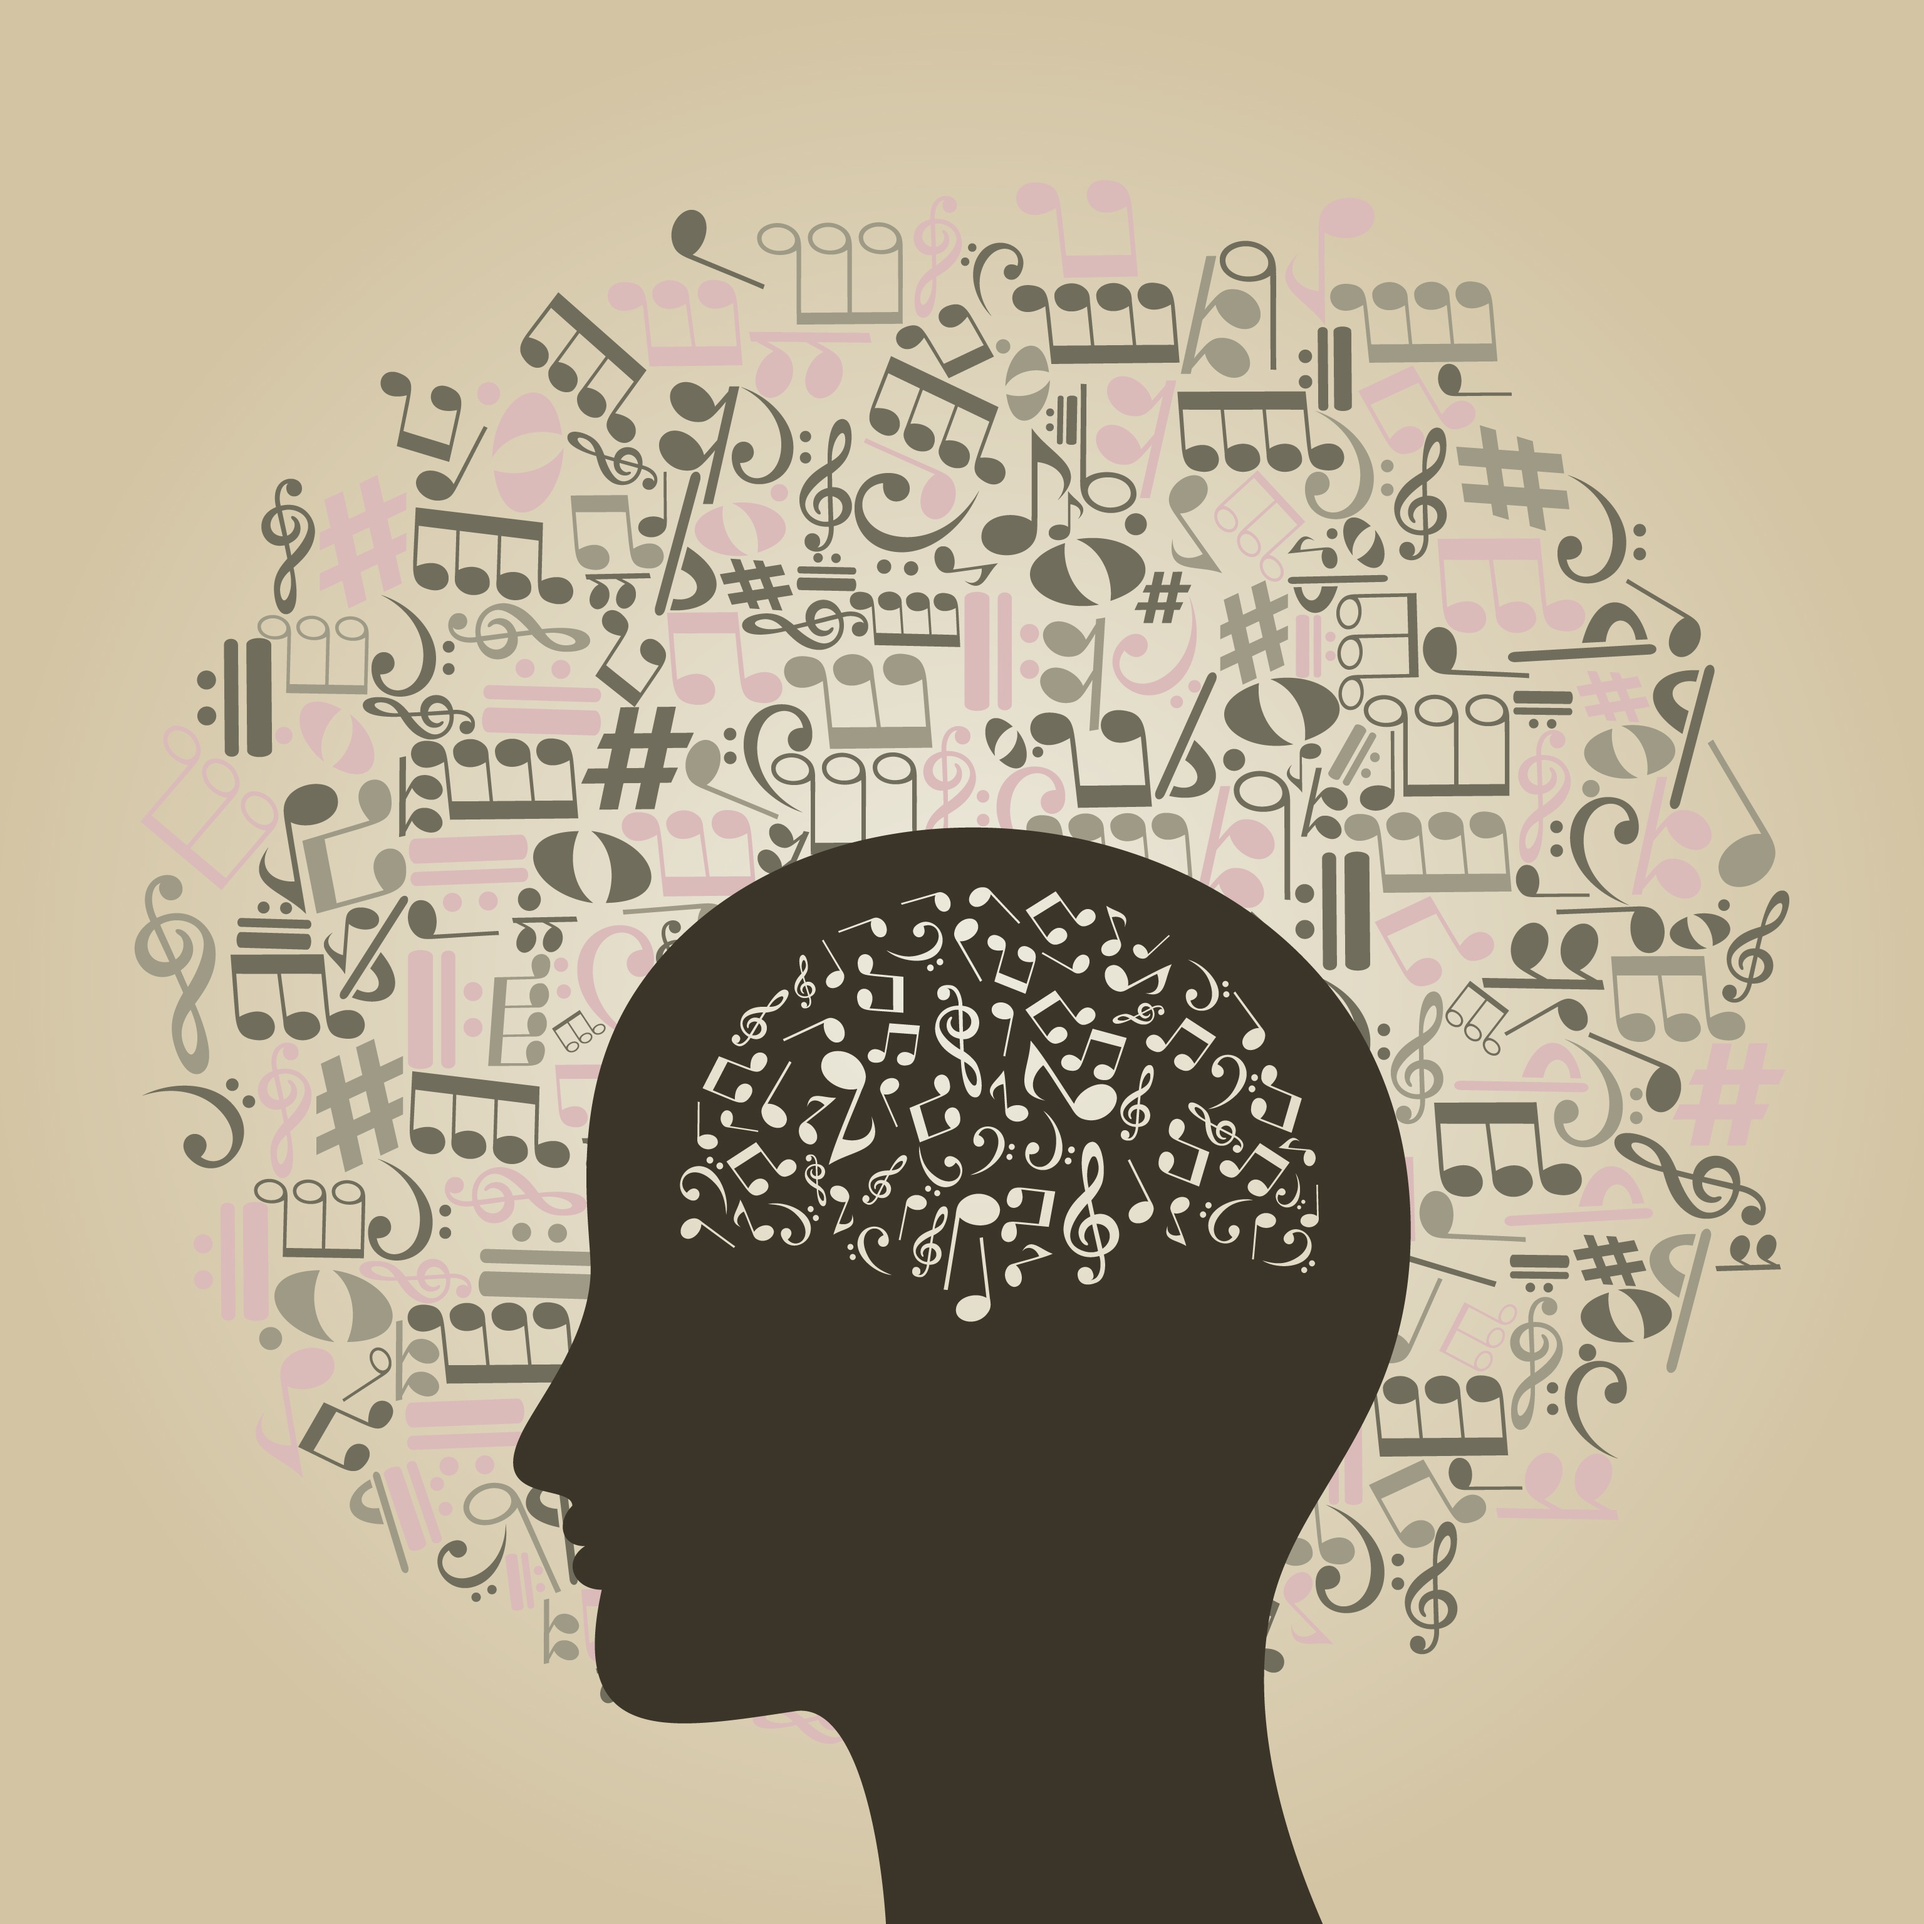
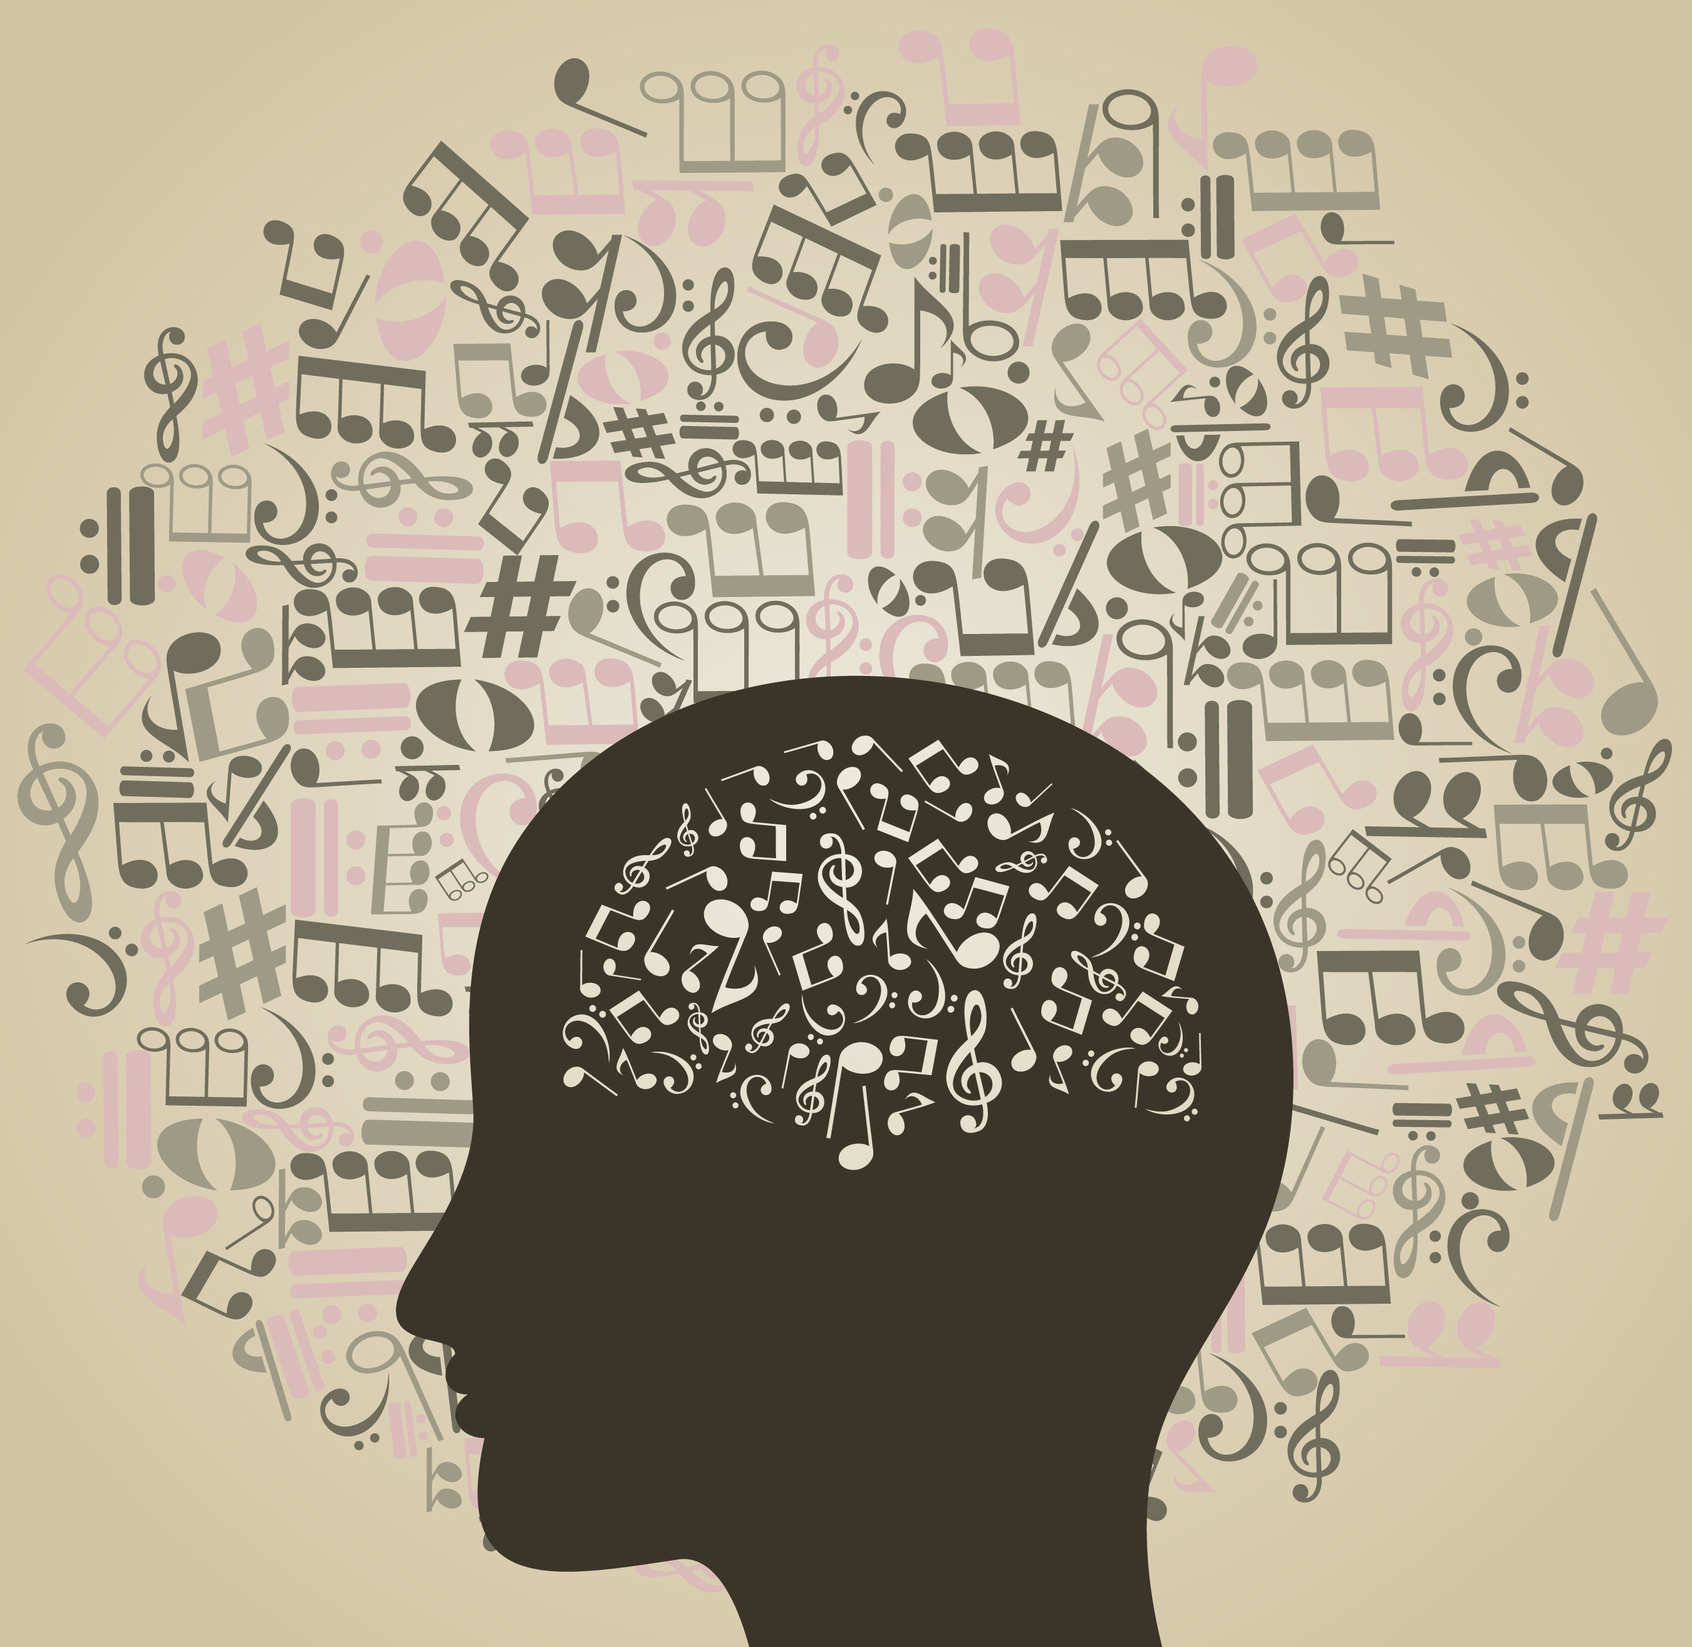
added giacomo research project

Changed region(s): [[0.0, 0.0312, 0.9952, 1.0]]

diff --git a/docs/_research/culture.md b/docs/_research/culture.md
@@ -5,12 +5,51 @@ tag: "Musician Studies"
 tagline: PhD research Giacomo Lepri
 thumb: culture/music-instruments02.png
 authors: "Giacomo Lepri"
-main-image: /images/research/culture/Gianlorenzo01.jpg
+main-image: /images/research/culture/Gianlorenzo.jpg
 production-date: 2017 - present
 para: Situating design within cultural and musical values
 links: ["http://www.giacomolepri.com/research"]
 link-names: ["Related publications"]
-published: false
 ---
+{% include single-image-research.html fileName="culture/music_research.jpg" %}
 
-Heye!
+### Background
+
+It is possible to argue that any musical technology embodied a set of pre-existing knowledge (e.g. technical expertise, musical notions and performative intentions). A luthier (instrument makers), while designing an instrument, transfers into the object specific cultural knowledges and musical meanings.
+
+Likewise, musicians can be considered influential vectors through witch musical values are conveyed within communities. The involvement into specific musical communities implies ways of learning - of both absorbing and being absorbed in - the culture of practice. The roles played by music practitioners active in particular contexts seems therefore crucial for the generation and reproduction of cultural values that influence the understanding and use of music technologies.
+
+### Aims
+
+This research aims to explore how diverse musical backgrounds related to communities of musical practice influence the foresee of music technology. Drawing on HCI approaches and methodologies such as Design Fiction, Value Sensitive Design and Participatory Design, we aim to develop a body of knowledge for the discovery of musical values related to specific musical communities.
+
+The exploration of the communities engaged with the invention and mediation of new musical instruments are also considered. We therefore aim to identify tacit assumptions on the ways designers use the available technologies while building new musical instruments. Furthermore, our goal is to elaborate on the question "Who controls who?". Thus, discussing the relations between tools, musical intentions and technical expertise within the instrument design tendencies situated in the NIME communities.
+
+The body of knowledge and skill acquired will hopefully converge in the design of instruments conceived for specific musical values. Thus addressing specific musicians active in diverse communities of musical practice.
+
+### Key concepts
+
+Notions such as corporeal intentionality and embodied interaction are considered as core aspects of musical expressiveness. From this viewpoint, designers of New Interface for Musical Expression inherit a centuries-old body of knowledges and practices. New instruments are often discussed in relation to traditional instruments. This suggests that historical and cultural practices are easily projected into the design of the new instruments.
+
+This research is grounded on the idea that new media re-mediates old media. The design of a novel instrument can be approached as a migration process in which features associated with existing musical technologies are integrated and negotiated into a new context. Thus we envision instrumented design cultures as sedimented and layered, a fold of time and materiality where the past might be suddenly discovered anew.
+
+#### Media Archaeology
+
+In media theory, the attempts to understand new and emerging technologies by taking into account the history
+and evolution of past new media is dened as media archaeology These cultural studies focus on the critical scrutiny of forgotten technologies, observing that new media often renovate old interactive paradigms and communication techniques. Media Archaeology is also a methodology for contemporary artistic practice introducing the concept of 'zombie media': a media that is not only out of use, but resurrected to new uses, contexts and adaptations.
+
+#### Remediation
+
+Remediation can be dened as the formal logic by which new media refashion prior media forms. This implies that characteristics typical of an existing media are transferred into the new media. Digital media often remediate analog media, for instance the pages of a web portal might remediate those of a printed newspaper. Nowadays, thanks to low-cost microcontrollers and embedded systems, everyday objects can be easily digitalised in order to expand their functionalities and remediate of other devices.
+
+### Mirroring the past: Cembalo Scrivano
+
+The first outcome of the research is the Cembalo Scrivano : an interactive audio-visual installation based on an augmented typewriter. By detecting the user's typing activity, the CS1 generates in realtime audio and visual materials. The project is inspired by the writing machine created in 1855 by the Italian inventor Giuseppe Ravizza. Ravizza called his invention Cembalo Scrivano (Scribe Harpsichord) due to the usage of piano-keys. This invention reworks the harpsichord interface: an existing musical instrument was used as source of inspiration for the development of a new machine (from art technology to typewriting).
+
+The CS1 aims to mirror this process: a typewriter is converted into an interactive art installation (from typewriting to art technology). Oscillating between two domains (musical and literary), the same technology travels across history, carrying knowledge, behaviours and meanings.
+
+{% include youtube.html youtube="o9BE7N6ER5w" %}
+
+#### References
+
+G. Lepri, A. P. McPherson. [Mirroring the past, from typewriting to interactive art: an approach to the re-design of a vintage technology](http://www.nime.org/proceedings/2018/nime2018_paper0069.pdf). Proc. New Interfaces for Musical Expression, Blacksburg, Virginia, USA. 2018.
